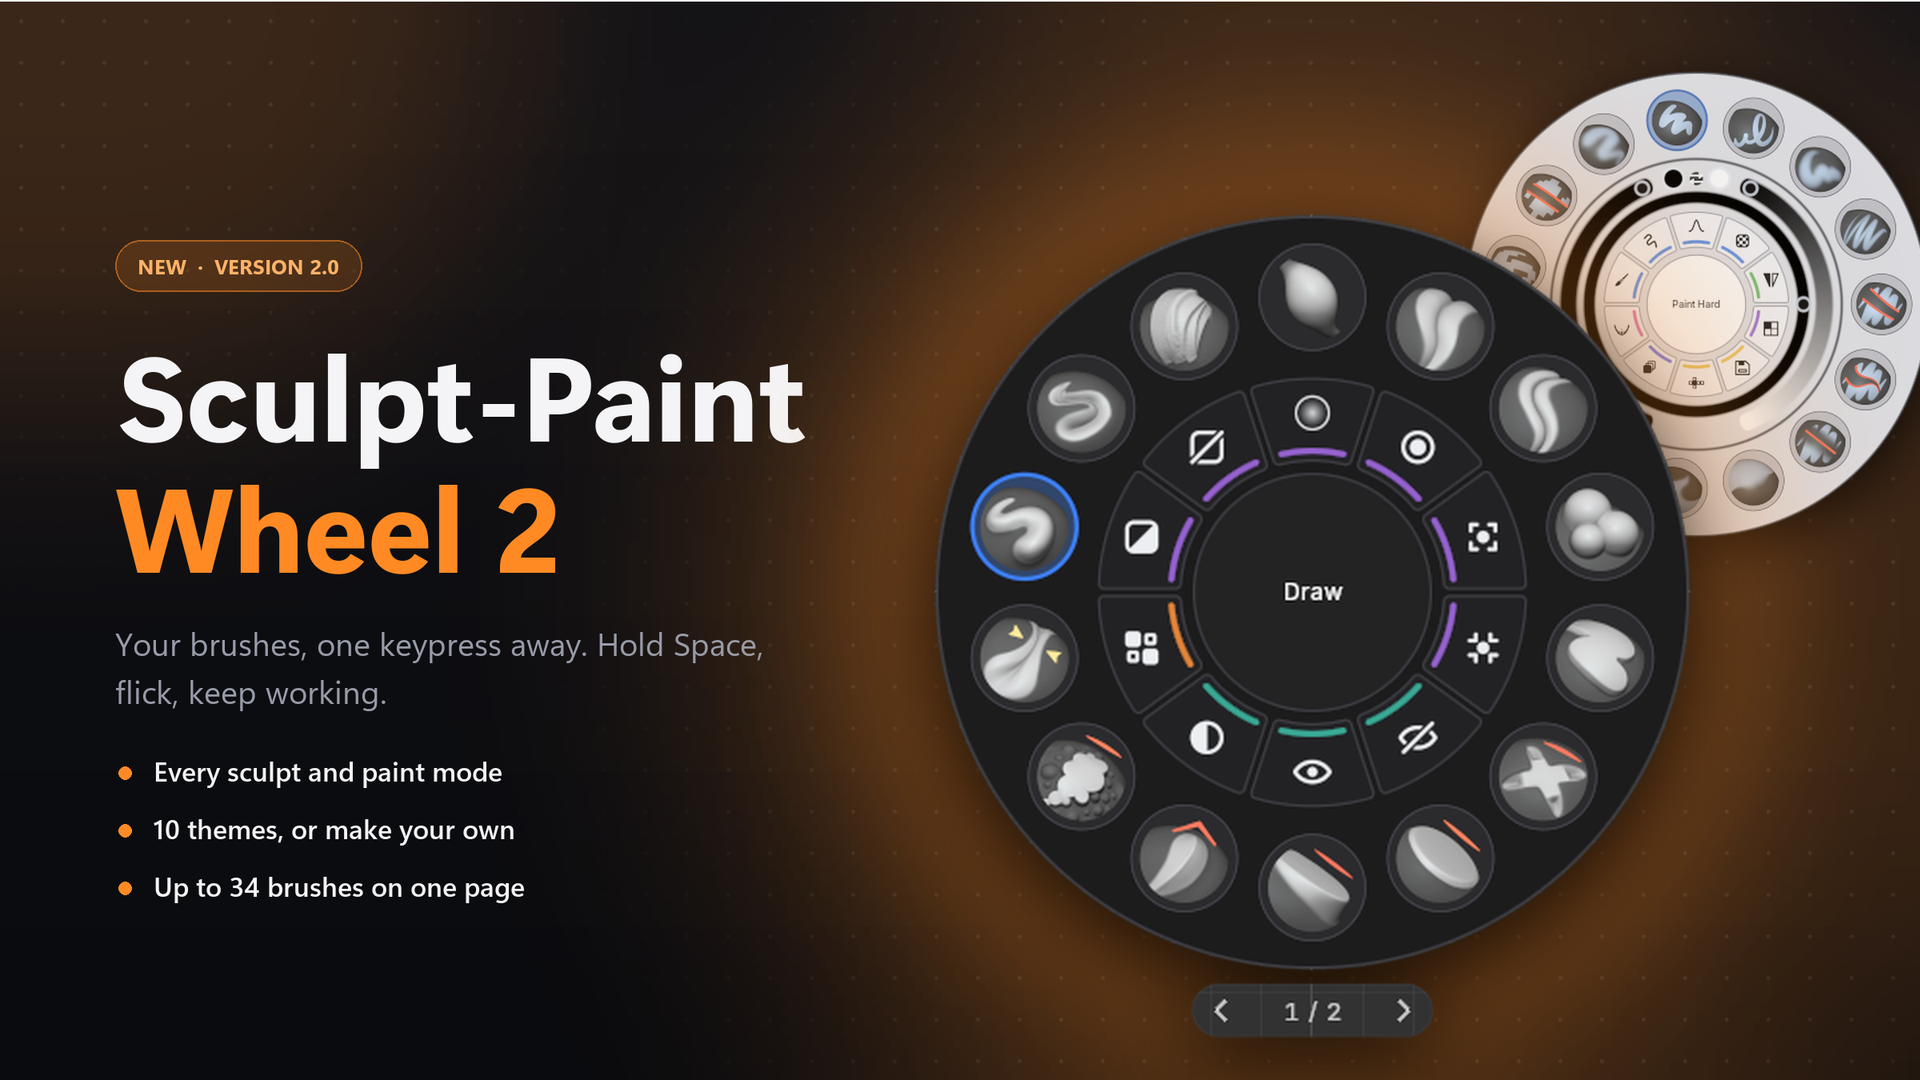
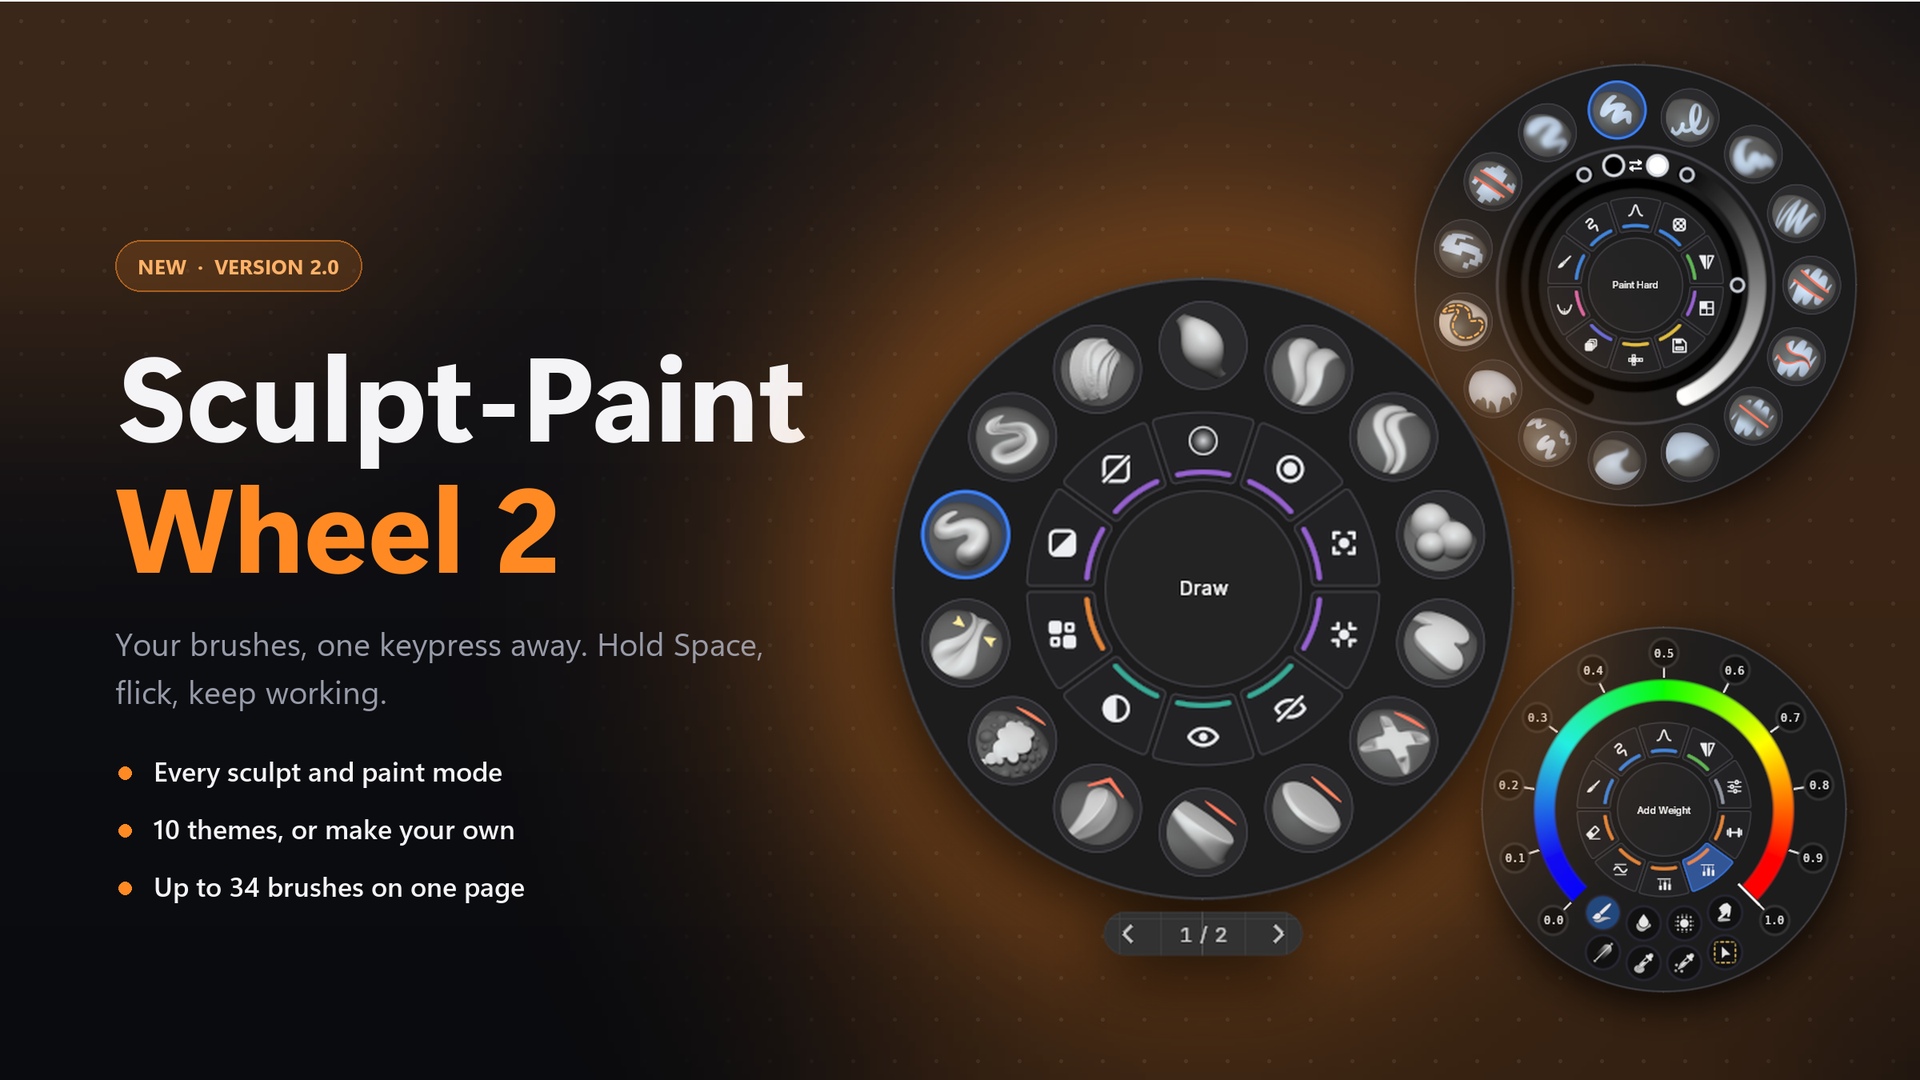
Store: main image and gallery cover show the Sculpt, Texture Paint and Weight Paint wheels

Changed region(s): [[0.4375, 0.0611, 1.0, 0.9778]]

diff --git a/store/tools/v2_graphics.py b/store/tools/v2_graphics.py
@@ -308,8 +308,10 @@ for t in ("Every sculpt and paint mode", "10 themes, or make your own", "Up to 3
     d.ellipse((P(74), P(y + 9), P(82), P(y + 17)), fill=ACCENT)
     d.text((P(96), P(y)), t, font=F_LABEL, fill=TEXT)
     y += 24
-place_wheel(img, "themes", "texture_light", 1050, 230, 300, opacity=0.95)
-place_wheel(img, "modes", "sculpt", 800, 420, 500, glow=True)
+# Three wheels: Texture Paint and Weight Paint behind, Sculpt in front.
+place_wheel(img, "modes", "texture", 1012, 228, 300)
+place_wheel(img, "modes", "weight", 1030, 588, 252, with_pill=False)
+place_wheel(img, "modes", "sculpt", 738, 432, 420, glow=True)
 save(img, "v2_01_hero.png")
 
 # ===== 2. What's new ===============================================================================================
@@ -590,8 +592,9 @@ for t_ in ("Every sculpt and paint mode", "10 themes, or make your own", "Up to 
     d.ellipse((P(74), P(y + 9), P(82), P(y + 17)), fill=ACCENT)
     d.text((P(96), P(y)), t_, font=F_LABEL, fill=TEXT)
     y += 36
-place_wheel(img, "themes", "texture_light", 1060, 190, 290, opacity=0.95)
-place_wheel(img, "modes", "sculpt", 820, 370, 470, glow=True)
+place_wheel(img, "modes", "texture", 1022, 178, 276)
+place_wheel(img, "modes", "weight", 1040, 506, 228, with_pill=False)
+place_wheel(img, "modes", "sculpt", 752, 368, 388, glow=True)
 save_slide(img, "g01_cover.png")
 
 # 2. Modes
